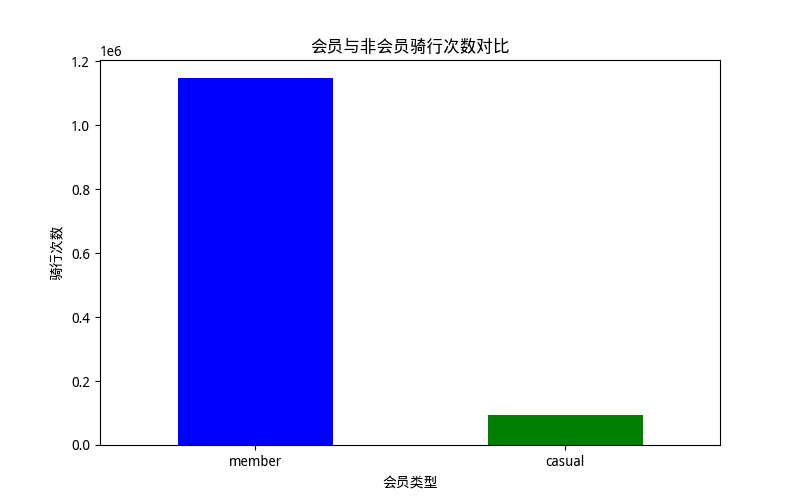
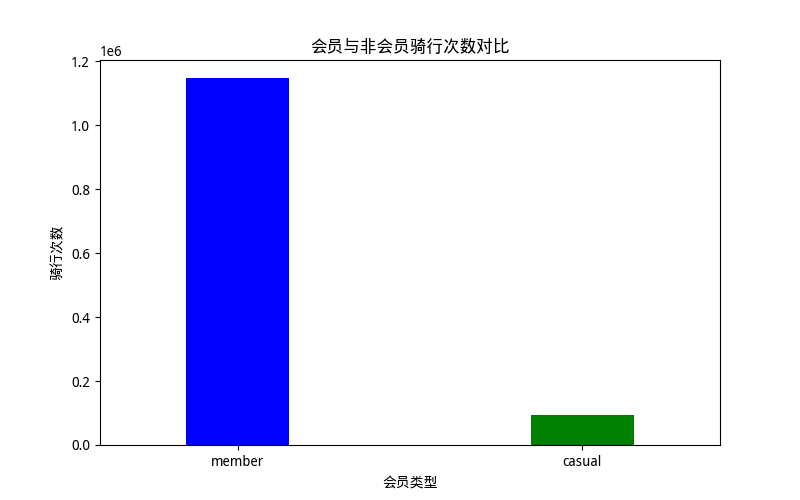
merge and modify photo

diff --git a/src/statistics/compare.py b/src/statistics/compare.py
@@ -13,17 +13,19 @@ def compare_and_visualize_stats(data1, data2):
     data2_values = list(stats2.values())
 
     # 创建一个图表和多个子图
-    fig, axes = plt.subplots(nrows=len(labels), ncols=1, figsize=(10, 15))
+    fig, axes = plt.subplots(nrows=len(labels), ncols=1, figsize=(5, 15))
 
     chinese_labels = ['总骑行次数', '平均骑行时间(分钟)', '骑行时间标准差(分钟)', '会员骑行次数', '非会员骑行次数']
 
     for ax, label, data1_val, data2_val in zip(axes, chinese_labels, data1_values, data2_values):
-        
-        x = np.arange(1)  # 只有一组数据
-        width = 0.1  # 条形的宽度
 
-        rects1 = ax.bar(x - width/2, data1_val, width, label='2020', color='blue')
-        rects2 = ax.bar(x + width/2, data2_val, width, label='2021', color='green')
+        x = np.arange(1)  # 只有一组数据
+        width = 0.01  # 设置较小的条形宽度
+
+        spacing = 0.05  # 设置柱子之间的间隔（可以根据需要调整）
+
+        rects1 = ax.bar(x - (width + spacing) / 4, data1_val, width, label='2020', color='blue')
+        rects2 = ax.bar(x + (width + spacing) / 4, data2_val, width, label='2021', color='green')
 
         ax.set_xticks(x)
         ax.set_xticklabels([label], rotation=0)  # 标签水平放置
@@ -33,6 +35,6 @@ def compare_and_visualize_stats(data1, data2):
         ax.bar_label(rects2, padding=3, label_type='edge')  # 将数值显示在条形的上方
 
     fig.tight_layout()
-    # plt.show()
+    #plt.show()
     plt.savefig('result/photos/compare.png')
 

diff --git a/src/main.py b/src/main.py
@@ -10,3 +10,10 @@ from compare import compare_and_visualize_stats
 from clust import cluster_ride_durations
 from view import plot_duration_clusters
 from station import visualize_top_stations
+from describe import describe_data, plot_membership_type_rides
+
+data_2020 = load_csv_data('data/final/2020.csv')
+data_2021 = load_csv_data('data/final/2021.csv')
+
+plot_membership_type_rides('2020', data_2020)
+plot_membership_type_rides('2021', data_2021)
